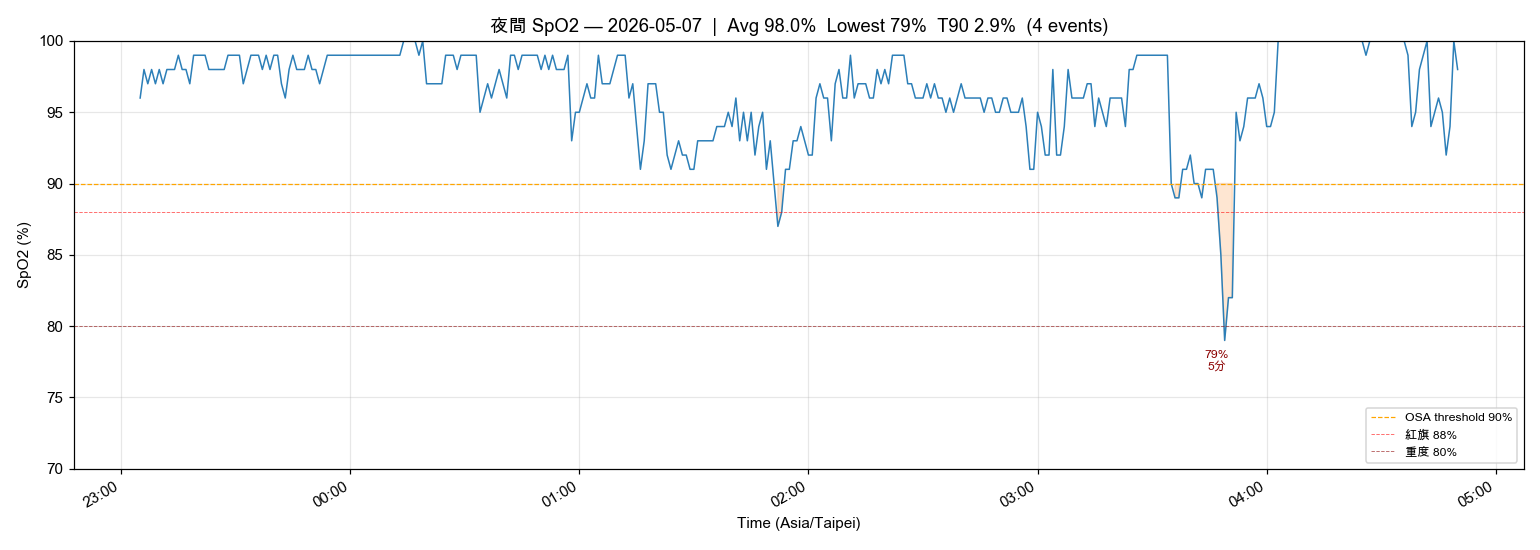
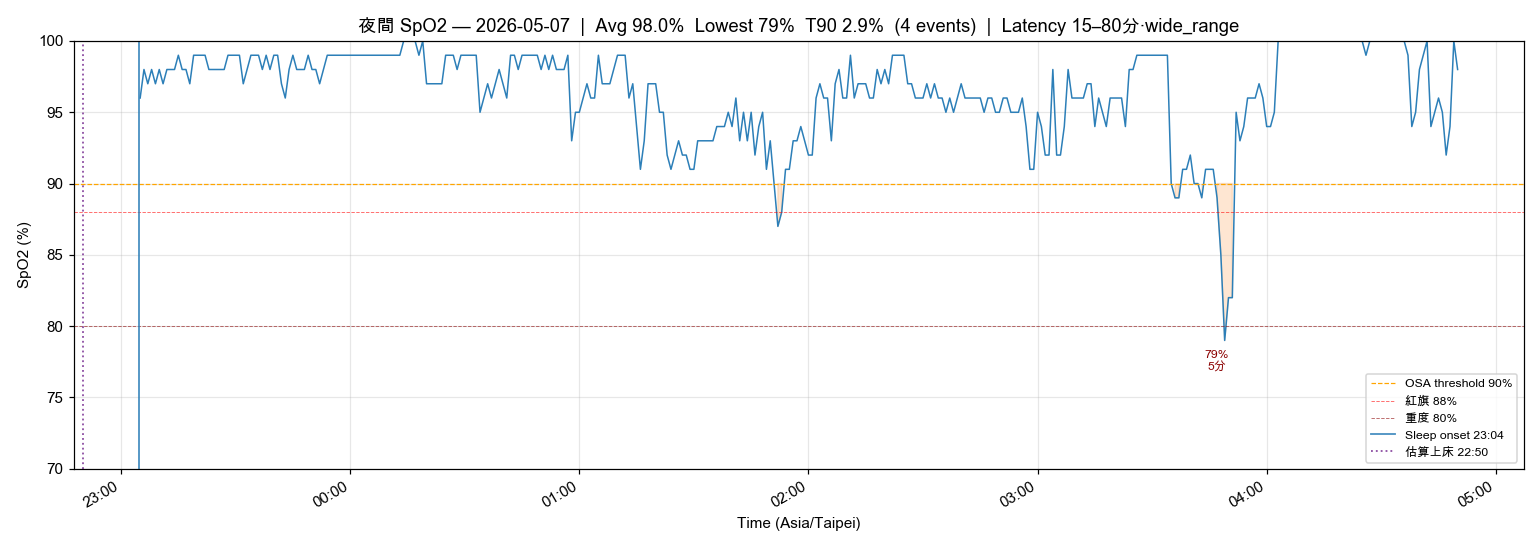
feat: latency 雙估算（HR 下限 + 步數上限）+ 手動上床覆寫
針對 5/7 那晚的盲點：HR 一低就被當作快睡了（22:50, 14m），但實際是
「躺床清醒」90分鐘。HR 訊號偵測得到「活動」，但區分不出「靜躺清醒」
與「靜躺已睡」，會系統性低估失眠 latency。

修法：
- estimate_sleep_latency.py 雙輸出 latency_min_lower（max(HR/步數/壓力)）
  與 latency_min_upper（步數訊號獨用）；差 > 30 分 → quality=wide_range
- 手動覆寫：若 reviews/daily/{date}.md 含 `**實際上床：** HH:MM`，
  以使用者輸入為準（source=manual_override）
- search window 由 120 → 180 分鐘，更能涵蓋早睡的晚上

UI 更新：
- daily-garmin .md 顯示「latency: 15 分（範圍 15–80 分）（wide_range）」
- SpO2 單晚圖標題：Latency 15–80分·wide_range
- SpO2 trend 第 6 panel：solid bar = 下限；hatched 灰擴增 = 上限；
  藍邊框 + ✎ = 手動覆寫日
- daily.md 模板新增「實際上床」欄位
- daily-command.md：wide_range 時追問使用者實際上床時間

5/7 night 現在正確標示為 15–80 分（wide_range）；其他多數晚上下限上限
一致或差 < 30 分。

Changed region(s): [[0.2182, 0.0309, 0.8104, 0.0618], [0.8727, 0.68, 0.9974, 0.8345]]

diff --git a/scripts/analyze_spo2_desats.py b/scripts/analyze_spo2_desats.py
@@ -212,8 +212,13 @@ def cmd_chart(date: str, out: Path = None):
                            alpha=0.85, label=f"估算上床 {t_bed.strftime('%H:%M')}")
                 if est.get("latency_min") is not None:
                     q = est.get("quality")
-                    tag = "" if q == "ok" else f"·{q}"
-                    latency_text = f"  |  Latency {est['latency_min']}分{tag}"
+                    lo, hi = est.get("latency_min_lower"), est.get("latency_min_upper")
+                    if lo is not None and hi is not None and lo != hi:
+                        lat_disp = f"{lo}–{hi}分"
+                    else:
+                        lat_disp = f"{est['latency_min']}分"
+                    tag = "" if q in ("ok", "manual") else f"·{q}"
+                    latency_text = f"  |  Latency {lat_disp}{tag}"
     except Exception:
         pass
 
@@ -271,11 +276,17 @@ def cmd_trend(days: int = 9999, out: Path = None):
         tst_min = (dto.get("sleepTimeSeconds") or 0) / 60
         # Latency 估算
         latency_min = None
+        latency_lo = None
+        latency_hi = None
+        latency_src = None
         if estimate_latency is not None:
             try:
                 est = estimate_latency(date)
                 if est and "error" not in est:
                     latency_min = est.get("latency_min")
+                    latency_lo = est.get("latency_min_lower")
+                    latency_hi = est.get("latency_min_upper")
+                    latency_src = est.get("source")
             except Exception:
                 pass
         rows.append({
@@ -287,6 +298,9 @@ def cmd_trend(days: int = 9999, out: Path = None):
             "events": len(events),
             "tst": tst_min,
             "latency": latency_min,
+            "latency_lo": latency_lo,
+            "latency_hi": latency_hi,
+            "latency_src": latency_src,
         })
 
     if not rows:
@@ -300,6 +314,9 @@ def cmd_trend(days: int = 9999, out: Path = None):
     longest_ev = [r["longest"] for r in rows]
     tsts = [r["tst"] / 60 for r in rows]  # 小時
     latencies = [r["latency"] if r["latency"] is not None else 0 for r in rows]
+    latencies_lo = [r["latency_lo"] if r["latency_lo"] is not None else 0 for r in rows]
+    latencies_hi = [r["latency_hi"] if r["latency_hi"] is not None else 0 for r in rows]
+    latency_srcs = [r["latency_src"] for r in rows]
     # ODI 代理（AHI proxy）= 每睡眠小時 desat events 數
     odi = [r["events"] / (r["tst"] / 60) if r["tst"] > 0 else 0 for r in rows]
 
@@ -422,25 +439,39 @@ def cmd_trend(days: int = 9999, out: Path = None):
     ax.grid(alpha=0.3, axis="y")
     ax.legend(loc="upper right", fontsize=8, ncol=3)
 
-    # Panel 6: Sleep latency 估算
+    # Panel 6: Sleep latency 估算（雙範圍 lower–upper）
     ax = axes[5]
-    colors = [color_lat(v) for v in latencies]
-    ax.bar(dates, latencies, color=colors, edgecolor="#333", linewidth=0.6, width=0.8)
+    colors = [color_lat(v) for v in latencies_lo]
+    ax.bar(dates, latencies_lo, color=colors, edgecolor="#333", linewidth=0.6, width=0.8,
+           label="HR-based 下限")
+    # Upper bound 用「半透明擴增條」疊在 lower bar 上方
+    upper_extension = [max(hi - lo, 0) for lo, hi in zip(latencies_lo, latencies_hi)]
+    ax.bar(dates, upper_extension, bottom=latencies_lo, color="#888", alpha=0.35,
+           edgecolor="#444", linewidth=0.4, width=0.8, hatch="///",
+           label="步數-based 上限（躺床清醒不確定區）")
+    # 手動覆寫日期 — 加邊框與標記
+    for d, src, v in zip(dates, latency_srcs, latencies):
+        if src == "manual_override":
+            ax.bar([d], [v], color="#1e88e5", edgecolor="#0d47a1", linewidth=1.5, width=0.8, alpha=0.85)
+            ax.annotate("✎", xy=(d, v), xytext=(0, 8),
+                        textcoords="offset points", ha="center", fontsize=10, color="#0d47a1")
     ax.axhline(20, color="goldenrod", linestyle=":", linewidth=1.0, alpha=0.6, label="正常上限 20 分")
     ax.axhline(30, color="orange",    linestyle=":", linewidth=1.0, alpha=0.6, label="偏長 30 分")
     ax.axhline(45, color="red",       linestyle=":", linewidth=1.0, alpha=0.6, label="疑似失眠 45 分")
-    for d, v in zip(dates, latencies):
-        if v > 0:
-            ax.annotate(f"{v}", xy=(d, v), xytext=(0, 2),
+    for d, lo, hi in zip(dates, latencies_lo, latencies_hi):
+        if hi > 0:
+            label = f"{lo}" if lo == hi else f"{lo}–{hi}"
+            ax.annotate(label, xy=(d, hi), xytext=(0, 2),
                         textcoords="offset points", ha="center", fontsize=6,
-                        color="darkred" if v >= 30 else "#444")
+                        color="darkred" if lo >= 30 else "#444")
     ax.set_ylabel("入睡 Latency (分)\nHR+步數+壓力 估算", fontsize=11)
-    ax.set_ylim(0, max(50, max(latencies) + 5) if latencies else 50)
+    max_y = max(latencies_hi) if latencies_hi else 0
+    ax.set_ylim(0, max(50, max_y + 5))
     ax.set_xlabel("日期（每根 bar = 一晚睡眠）", fontsize=11)
     ax.grid(alpha=0.3, axis="y")
-    ax.legend(loc="upper right", fontsize=8, ncol=3)
+    ax.legend(loc="upper right", fontsize=7, ncol=2)
     ax.text(0.01, 0.95,
-            "[!] 估算非測量。手錶無法直接測 sleep latency；數值為「最後清醒訊號→Garmin 偵測入睡」之差",
+            "[!] 估算非測量。實線下限=HR訊號（可能低估）；陰影上限=步數訊號（可能高估）；藍色=手動上床時間",
             transform=ax.transAxes, fontsize=8, color="darkred",
             verticalalignment="top",
             bbox=dict(boxstyle="round,pad=0.3", fc="#fff3cd", ec="#d7301f", alpha=0.9))

diff --git a/scripts/sync_garmin_daily.py b/scripts/sync_garmin_daily.py
@@ -155,9 +155,17 @@ def summarize(payload: dict) -> str:
             est = estimate_latency(d)
             if est and "error" not in est and est.get("bedtime_est_local"):
                 lat = est.get("latency_min")
+                lo = est.get("latency_min_lower")
+                hi = est.get("latency_min_upper")
                 q = est.get("quality")
-                q_tag = "" if q == "ok" else f"（{q}）"
-                lines.append(f"- 估算上床：{est['bedtime_est_local']}｜入睡 latency：{lat} 分{q_tag}")
+                src = est.get("source")
+                src_tag = "（手動）" if src == "manual_override" else ""
+                if lo is not None and hi is not None and lo != hi:
+                    lat_str = f"{lat} 分（範圍 {lo}–{hi} 分）"
+                else:
+                    lat_str = f"{lat} 分"
+                q_tag = "" if q in ("ok", "manual") else f"（{q}）"
+                lines.append(f"- 估算上床：{est['bedtime_est_local']}{src_tag}｜入睡 latency：{lat_str}{q_tag}")
                 if est.get("note"):
                     lines.append(f"  - 備註：{est['note']}")
         except Exception as e:

diff --git a/templates/daily-command.md b/templates/daily-command.md
@@ -16,6 +16,7 @@
    - 睡眠：**以 Garmin 摘要為準**（就寢、起床、總時長、深眠、REM、Sleep Score、Body Battery 起床值）；只需向使用者追問：
      - 中途醒來（次數+原因）
      - 主觀恢復感：1-5 分（1=極度疲憊, 5=精力充沛）
+     - **實際上床時間（可選填）**：若 daily-garmin 摘要的 latency 估算品質為 `wide_range`（HR 訊號與步數訊號差 > 30 分，代表演算法無法區分「躺床清醒」與「已睡」），向使用者追問「昨晚實際幾點上床？」；若回答則填入 `**實際上床：** HH:MM` 一行，演算法會以此覆寫 latency 估算
    - **昨日實際飲水量**（L）：優先讀取 Garmin summary 的「飲水 - 實際」欄；若為「—」（代表 Garmin Connect 未紀錄），才向使用者追問；使用者回覆後，執行 `python scripts/log_hydration.py --ml <mL值> --date <昨日日期> --replace` 自動回寫至 Garmin Connect（`--replace` 會先讀當日值算 delta，避免重複累加）；對照 ≥ 2.5L 目標
    - 身體信號：部位、性質、強度 (0-10)，或回答「清」
    - 今日計畫：飲水目標、補充品、運動安排、活動度/伸展安排

diff --git a/templates/daily.md b/templates/daily.md
@@ -27,12 +27,14 @@
 
 ## 睡眠狀態
 
-**實際就寢：**
+**Garmin 偵測入睡：**（自動填，= sleepStartTimestampLocal）
+**實際上床：**（可選填 HH:MM；若填會覆寫演算法 latency 估算 — 解決 HR 訊號低估「躺床清醒」的問題）
 **實際起床：**
 **中途醒來：** [ 無 / 次數：__ / 原因：__ ]
 **Garmin Sleep Score：** [ ] / 100
 **Garmin Body Battery 起床值：** [ ]
 **主觀恢復感：** [ ] / 5（1=極度疲憊, 5=精力充沛）
+**入睡 latency：**（自動估算，範圍 LO–HI 分）
 
 ### SpO2 夜間最低（7 晚趨勢）
 

diff --git a/reports/daily-garmin/2026-05-07.md b/reports/daily-garmin/2026-05-07.md
@@ -6,6 +6,8 @@
 - 深眠：54 分｜REM：58 分
 - Sleep Score：68
 - Body Battery 起床值：47
+- 估算上床：22:50｜入睡 latency：15 分（範圍 15–80 分）（wide_range）
+  - 備註：HR/步數估算差 65 分，無法區分躺床清醒
 
 ## 靜息心率
 - RHR：58.0 bpm
@@ -21,7 +23,7 @@
 - 最低：79%
 
 ## 飲水
-- 實際：1.30 L
+- 實際：2.00 L
 - 目標：2.00 L
 
 _Source: data/garmin/2026-05-07.json (gitignored)_
